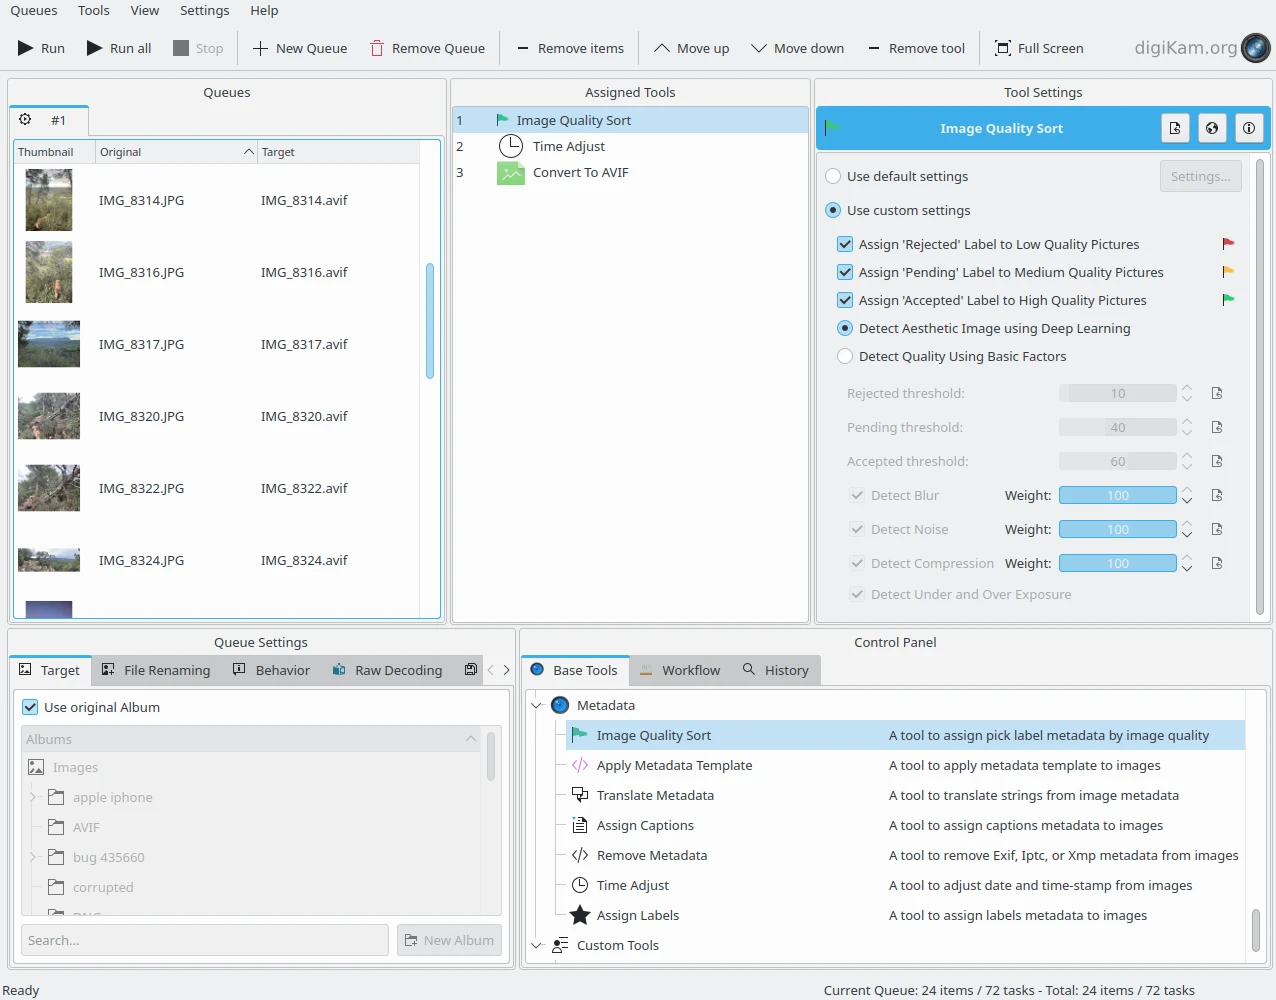
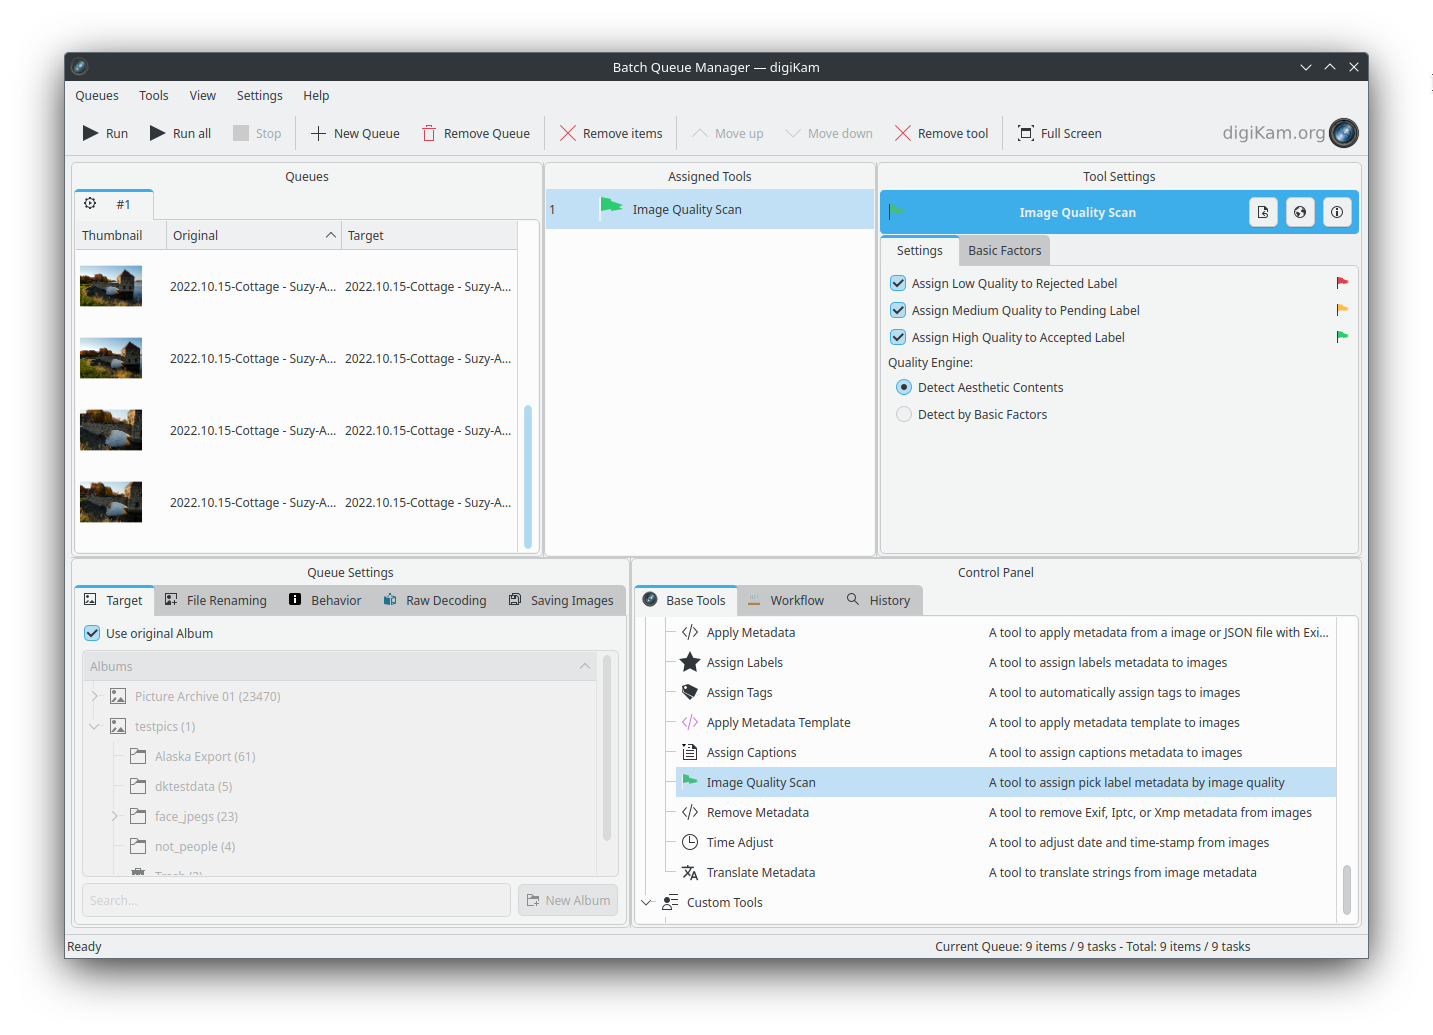
IQS renamed to Scan
IQS documentation modified for 8.6.0

diff --git a/maintenance_tools/maintenance_quality.rst b/maintenance_tools/maintenance_quality.rst
@@ -10,16 +10,16 @@
 
 .. _maintenance_quality:
 
-:ref:`Image Quality Sorter <maintenance_tools>`
-===============================================
+:ref:`Image Quality Scanner <maintenance_tools>`
+================================================
 
-.. figure:: images/maintenance_quality_sorter.webp
+.. figure:: images/maintenance_quality_sorter1.webp
     :alt:
     :align: center
 
-    The digiKam Maintenance Options for Image Quality Sorter
+    The digiKam Maintenance Options for Image Quality Scanner
 
-The **Image Quality Sorter** tool automatically assesses the **Quality** of each item and assigns a corresponding value to the **Pick Label** property in the database based on:
+The **Image Quality Scanner** tool automatically assesses the **Quality** of each item and assigns a corresponding value to the **Pick Label** property in the database based on:
 
    - The **Red** flag for **Rejected**.
 
@@ -27,7 +27,7 @@ The **Image Quality Sorter** tool automatically assesses the **Quality** of each
 
    - The **Green** flag for **Accepted**.
 
-The Image Quality Sorter assigns Pick Labels to items according to the default settings in :menuselection:`Settings --> Configure digiKam... --> Image Quality Sorter page`, or the dedicated options set in this view.
+More information about the **Image Quality Scanner** can be found in the :ref:`Labels view <label_imagescan>`.
 
 The quality **score** to determine the **Pick Label** property can be evaluated in one of two ways: using four basic factors for each image (**Blur**, **Noise**, **Exposure**, and **Compression**), or using a **deep learning neural network engine**.
 
@@ -39,19 +39,17 @@ The second approach uses an artificial intelligence engine based on `this model 
 
     Since quality assessment can be a time consuming process, it's a good idea to check Work on all processor cores and restrict the job to certain albums or tags.
 
-All the **Image Quality Sorter** settings are described in :ref:`this section <imgqsort_settings>` of the manual.
+The **Scan Mode** settings configure how the database information for the items from the selected collection will be processed. **All** resets all data and scans all items from scratch, **Non-assigned only** will scan images that have not previously been assigned **Pick Labels**.
 
-The **Scan Mode** settings configure how the database information for the items from the selected collection will be processed. **Clean all and re-scan** resets all data and scans all items from scratch, **Scan non-assigned only** will be faster to process just items that have not previously been assigned **Pick Labels**.
-
-While the image quality sorting process is underway, a progress indicator is displayed in the bottom right corner of the main window.
+While the image quality scanning process is underway, a progress indicator is displayed in the bottom right corner of the main window.
 
 .. figure:: images/maintenance_quality_process.webp
     :alt:
     :align: center
 
-    The digiKam Image Quality Sorter Process Running in the Background
+    The digiKam Image Quality Scanner Process Running in the Background
 
-The quality sorting results will appears in :ref:`the Labels view <labels_view>` from the right sidebar.
+The quality scanning results will appears in the :ref:`Labels view <labels_view>` from the right sidebar.
 
 .. figure:: images/maintenance_pick_labels.webp
     :alt:

diff --git a/asset_management/organize_find.rst b/asset_management/organize_find.rst
@@ -116,7 +116,7 @@ The real work begins with the application of **Tags**, **Captions** and a **Rati
 
 Specifically, digiKam provides **automatic tagging** features based on deep-learning:
 
-    - :ref:`Image Quality Sorting <maintenance_quality>` automatically assigns a **Pick Label** of either **Rejected**, **Pending** or **Accepted** to items based on aesthetic factors.
+    - :ref:`Image Quality Scanning <label_imagescan>` automatically assigns a **Pick Label** of either **Rejected**, **Pending** or **Accepted** to items based on aesthetic factors.
     - :ref:`Face Detection <face_detection>` automatically detects faces in images and records face areas in the database.
     - :ref:`Face Recognition <face_recognition>` automatically assigns people tags based on existing face tags.
 
@@ -216,13 +216,13 @@ Another categorization might be task-oriented as in *print jobs*, *web export*, 
 
     The digiKam :ref:`Color Labels <labels_view>` Can be Used to Group Items For Your Workflow Stages
 
-Another digiKam feature is the **Pick Labels** used to categorize shots by quality and identify which item will be **Rejected**, **Pending**, or **Accepted** in your workflow. You can assign these properties manually of course, but there is a better solution: digiKam can automatically perform image quality analysis using a deep-learning based tool named **Image Quality Sorter**. This tool evaluates image features such as noise, blur, form, shape, contents, etc., and gives an evaluation of the quality of the shot. This tool is available in the :menuselection:`Tools --> Maintenance...` menu and in the **Batch Queue Manager**.
+Another digiKam feature is the **Pick Labels** used to categorize shots by quality and identify which item will be **Rejected**, **Pending**, or **Accepted** in your workflow. You can assign these properties manually of course, but there is a better solution: digiKam can automatically perform image quality analysis using a deep-learning based tool named **Image Quality Scanner**. This tool evaluates image features such as noise, blur, form, shape, contents, etc., and gives an evaluation of the quality of the shot. This tool is available in the :ref:`Labels View <labels_view>`, :ref:`Maintenance menu <maintenance_quality>` and in the :ref:`Batch Queue Manager <metadata_tools>`.
 
 .. figure:: images/dam_quality_bqm.webp
     :alt:
     :align: center
 
-    The digiKam Pick Labels can be Assigned Automatically Depending on the  :ref:`Quality of Shot in Batch Queue Manager <bqm_qualitysort>`
+    The digiKam Pick Labels can be Assigned Automatically Depending on the  :ref:`Quality of Shot in Batch Queue Manager <bqm_qualityscan>`
 
 When you import cataloged images from other sources that already have embedded tags, digiKam will automatically create the keyword trees for you, adding the appropriate tags in the right place. The hierarchy tree can be easily rearranged by using drag and drop to move a sub-tree to another place in the hierarchy. The changed tags will be updated as digiKam traverses through the branches.
 

diff --git a/setup_application/miscs_settings.rst b/setup_application/miscs_settings.rst
@@ -277,7 +277,7 @@ This section allows you to adjust special low-level configurations used by digiK
 
 - **Use the software OpenGL rendering**: this option will disable the GPU hardware accelerations and switch to a software-emulation for all calls to OpenGL.
 
-- **Use the OpenCL hardware acceleration**: this option will enable the GPU hardware accelerations with the face management, image quality sorting, and auto-tags features. This option affects the `OpenCV <https://opencv.org/>`_ engine used in the background for intensive computation on images. To see the details about OpenCV hardware support, go to the :menuselection:`Help --> Components Information` menu item, and look at the :ref:`OpenCV section <help_componentsinfo>` in the dialog.
+- **Use the OpenCL hardware acceleration**: this option will enable the GPU hardware accelerations with the face management, image quality scanning, and auto-tags features. This option affects the `OpenCV <https://opencv.org/>`_ engine used in the background for intensive computation on images. To see the details about OpenCV hardware support, go to the :menuselection:`Help --> Components Information` menu item, and look at the :ref:`OpenCV section <help_componentsinfo>` in the dialog.
 
 - **Use the video hardware acceleration**: this option must be used only with compatible hardware GPU devices with the FFmpeg backend. Disable this option if video media decoding errors occur.
 
@@ -302,7 +302,7 @@ This section allows you to adjust special low-level configurations used by digiK
 
     digiKam Running Under Windows With DebugView
 
-- **Download Required Binary Data**: this button loads the deep-learning model files used with the face management, image quality sorting, and auto-tags features. Only use it if you bypassed this stage at the first-run of the application.
+- **Download Required Binary Data**: this button loads the deep-learning model files used with the face management, image quality scanning, and auto-tags features. Only use it if you bypassed this stage at the first-run of the application.
 
 - **Network Proxy Server Settings**: use this group the options to setup the `proxy server <https://en.wikipedia.org/wiki/Proxy_server>`_ settings for your local network. Leave empty if no proxy is required to access the Internet. Available Proxy options are listed below:
 

diff --git a/maintenance_tools/maintenance_overview.rst b/maintenance_tools/maintenance_overview.rst
@@ -15,7 +15,7 @@
 
 Maintenance tools are processes that are run in the background to maintain image collections and the digiKam database.
 
-Depending on your workflow, your digiKam settings, and whether you also work on your image collections with other programs, it might be necessary to run maintenance operations from time to time to update the digiKam **databases**. You may also want to run maintenance tools to **Find Duplicate Items** in your collections, **Detect and recognize faces**, or automatically assign quality labels using the **Image Quality Sorter**. The maintenance tool can do all these things, and more. It can even run multiple tools in one go, depending on your requirements.
+Depending on your workflow, your digiKam settings, and whether you also work on your image collections with other programs, it might be necessary to run maintenance operations from time to time to update the digiKam **databases**. You may also want to run maintenance tools to **Find Duplicate Items** in your collections, **Detect and recognize faces**, or automatically assign quality labels using the **Image Quality Scanner**. The maintenance tool can do all these things, and more. It can even run multiple tools in one go, depending on your requirements.
 
 .. figure:: images/maintenance_tool.webp
     :alt:
@@ -37,10 +37,10 @@ The available maintenance tools are:
 
    5. **Find Duplicate Items**: scan albums to update list of duplicates items based on **Similarity** finger-prints.
 
-   6. **Detect and Recognize Faces**: perform automatic face management updates.
+   6. **Detect and Recognize Faces**: perform automatic face management updates, including full reset.
 
    7. **Auto-tags Assignment**: scan items and add tags based on image content recognized by a neural network.
 
-   8. **Image Quality Sorter**: perform an automatic scan of items to sort items by quality and apply **Pick Labels** in database.
+   8. **Image Quality Scanner**: perform an automatic scan of items and apply **Pick Labels** based on image quality.
 
    9. **Sync Metadata and Database**: perform synchronization of items metadata with database contents or vice versa.

diff --git a/left_sidebar/labels_view.rst b/left_sidebar/labels_view.rst
@@ -122,7 +122,7 @@ Scan Mode:
 Assign labels:
 ~~~~~~~~~~~~~~
 
-    - Select which pick labels to assign to images. This is useful for letting digiKam automatically reject images that do not meet your quality standards, but still allow you to manually assign the other labels.
+    - Select which pick labels to assign to images. This is useful for letting digiKam automatically reject images that do not meet your quality standards, but still allow you to manually assign the other labels. Un-checking all three options renders the Image Quality Scanner functionally useless.
 
 Quality Engine:
 ~~~~~~~~~~~~~~~
@@ -156,4 +156,4 @@ The **Basic Factors** tab lets you control how the selected qualities influence 
 
     The digiKam Image Quality Scan Basic Factors View
 
-The **Basic Factors** method uses four basic factors to rate each image: **Blur, Noise, Exposure, and Compression**. Using basic factors, however, requires fine-tuning by the user and it does not include any assessment of the aesthetic value of the image.
+The **Basic Factors** method uses four basic factors to rate each image: **Blur, Noise, Exposure, and Compression**. Using basic factors, however, requires fine-tuning by the user and it does not include any assessment of the aesthetic value of the image. Un-checking all four options in **Basic Factors** mode renders the Image Quality Scanner functionally useless.

diff --git a/batch_queue/metadata_tools.rst b/batch_queue/metadata_tools.rst
@@ -17,12 +17,12 @@
 
 The Batch Manager metadata tools are used to assist with :ref:`Digital Asset Management <asset_management>` by managing metadata values in items within a Queue, by helping to classify contents in your collection, or by preparing files for sharing with other applications.
 
-.. _bqm_qualitysort:
+.. _bqm_qualityscan:
 
-Image Quality Sort
+Image Quality Scan
 ------------------
 
-This tool assesses your items to automatically assign a **Pick Label** based on the aesthetic value of the contents. You can use the fully automated quality assessment based on a deep-learning engine (recommended), or use manual settings for a fixed set of criteria including Blur, Noise, Exposure, and Compression. These settings are fully explained in the :ref:`Image Quality Sorting Settings <imgqsort_settings>` section of this manual.
+This tool assesses your items to automatically assign a **Pick Label** based on the aesthetic value of the contents. You can use the fully automated quality assessment based on a deep-learning engine (recommended), or use manual settings for a fixed set of criteria including Blur, Noise, Exposure, and Compression. These settings are fully explained in the :ref:`Image Quality Scanning Settings <label_imagescan>` topic in the **Labels View** section of this manual.
 
 .. figure:: images/bqm_metadata_quality.webp
     :alt:

diff --git a/getting_started/installation.rst b/getting_started/installation.rst
@@ -28,11 +28,11 @@ Minimum System Requirements
 
 - **Operating System**: 64-bit Windows 10 or newer, Apple macOS 64-bit based on Intel or Apple Silicon (M1 or later), or 64-bit Linux. See details below.
 
-- **CPU**: x86 Intel, AMD, or Arm; at least one 2 GHz core for standard photo processing, 4 cores for large photo or panorama processing, 8 cores for deep-learning capabilities such as face detection, image quality sorting, and auto-tags. See details below.
+- **CPU**: x86 Intel, AMD, or Arm; at least one 2 GHz core for standard photo processing, 4 cores for large photo or panorama processing, 8 cores for deep-learning capabilities such as face detection, image quality scanning, and auto-tags. See details below.
 
 - **GPU**: OpenGL 2.0 that works correctly and is compatible. On Windows, you can also use a card with good, compatible DirectX 9 or 11 drivers.
 
-- **RAM**: At least 4 GB for standard photo processing, 8 GB for large photo or panorama processing, 16 GB for deep-learning capabilities such as face detection and image quality sorting. See details below.
+- **RAM**: At least 4 GB for standard photo processing, 8 GB for large photo or panorama processing, 16 GB for deep-learning capabilities such as face detection and image quality scanning. See details below.
 
 .. note::
 

diff --git a/left_sidebar/tags_view.rst b/left_sidebar/tags_view.rst
@@ -25,7 +25,7 @@ Tags, also known as keywords in some applications, are an essential feature in d
 
 4. **Metadata Enhancement**: Tags contribute to enriching the metadata associated with each asset. This additional information can include descriptions, keywords, and other relevant details, providing more context and making the assets more informative.
 
-5. **Workflow Automation**: Tags can be used to automate workflows within digiKam. For example, assets tagged with a certain label can be used in various tools like facial recognition and image quality sorting.
+5. **Workflow Automation**: Tags can be used to automate workflows within digiKam. For example, assets tagged with a certain label can be used in various tools like facial recognition and image quality scanning.
 
 6. **Collaboration**: Tags facilitate collaboration by allowing team members to easily share and access tagged assets. This ensures that everyone involved in a project can quickly find the necessary resources.
 

diff --git a/getting_started/quick_start.rst b/getting_started/quick_start.rst
@@ -113,7 +113,7 @@ Once you have configured the Album Library Folder you can set up digiKam to work
 
 .. important::
 
-    When first run, digiKam will ask to download several large files from the Internet. These files are the deep-learning models used for facial recognition, red eye removal, and the image quality sorting features. If you skip downloading these files, these features will not work properly. But you can always download these files later from the :ref:`Setup/Miscs/System <system_settings>` dialog.
+    When first run, digiKam will ask to download several large files from the Internet. These files are the deep-learning models used for facial recognition, red eye removal, and the image quality scanning features. If you skip downloading these files, these features will not work properly. But you can always download these files later from the :ref:`Setup/Miscs/System <system_settings>` dialog.
 
     .. figure:: images/models_downloader.webp
         :alt:

diff --git a/setup_application.rst b/setup_application.rst
@@ -34,7 +34,6 @@ This section explains all of the customized settings you can use to setup or cus
    setup_application/cm_settings.rst
    setup_application/lighttable_settings.rst
    setup_application/geolocation_settings.rst
-   setup_application/imgqsort_settings.rst
    setup_application/camera_settings.rst
    setup_application/plugins_settings.rst
    setup_application/miscs_settings.rst

diff --git a/context_menus.rst b/context_menus.rst
@@ -132,7 +132,7 @@ Thumbnails
     * :menuselection:`Paste`
     * :menuselection:`Rename...`
     * :menuselection:`Move 2 Files to Trash`
-    * :menuselection:`Image Quality Sort`
+    * :menuselection:`Image Quality Scan`
     * :menuselection:`Assign Tag --> Recently Assigned Tags`
     * :menuselection:`Assign Tag --> Add New Tag`
     * :menuselection:`Assign Tag --> More Tags...`

diff --git a/batch_queue/base_tools.rst b/batch_queue/base_tools.rst
@@ -157,7 +157,7 @@ These tools allow you to save images to new file formats. These are usually plac
 Metadata Tools
 --------------
 
-    - :ref:`Image Quality Sort <bqm_qualitysort>`
+    - :ref:`Image Quality Scan <bqm_qualityscan>`
 
     - :ref:`Apply Metadata Template <bqm_assigntemplate>`
 
